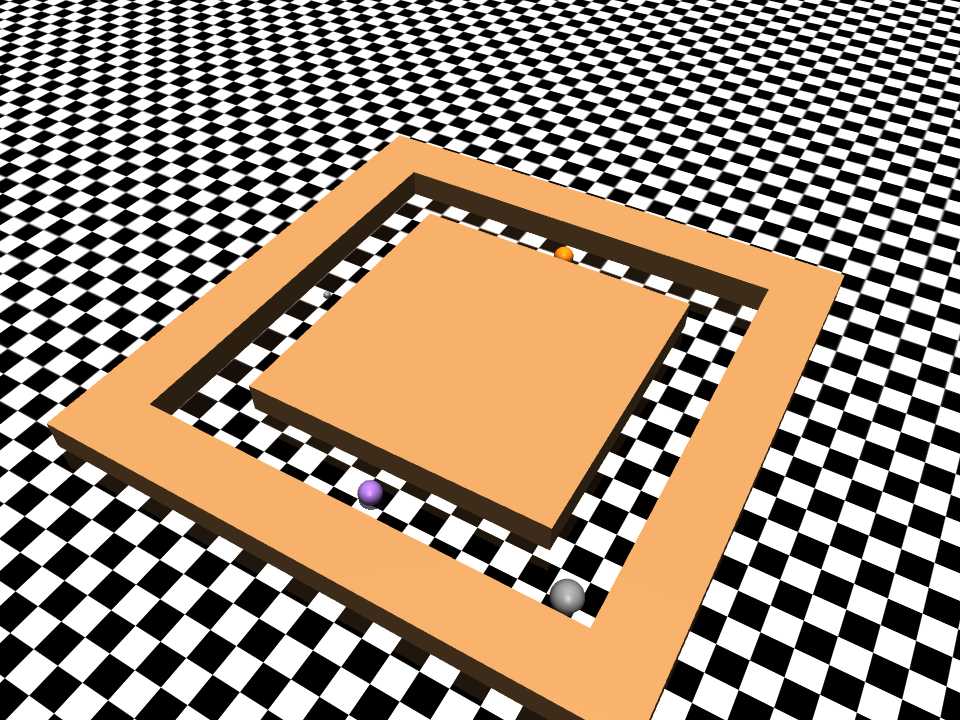
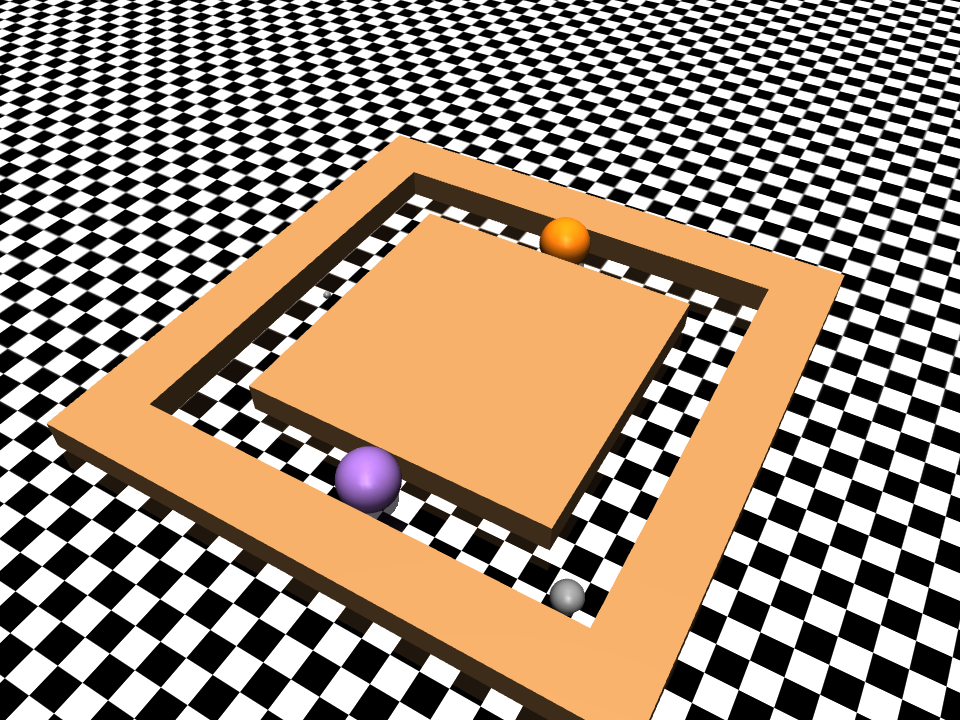
Enlarge multi-path subgoal spheres to fill the corridor.
Size markers to nearly the full corridor width so an agent cannot take a path without intersecting a subgoal volume.

Changed region(s): [[0.3438, 0.6111, 0.4375, 0.7333], [0.5625, 0.3056, 0.625, 0.3667]]

diff --git a/jaxgcrl/envs/simple_maze.py b/jaxgcrl/envs/simple_maze.py
@@ -163,10 +163,16 @@ def make_maze(maze_layout_name, maze_size_scaling):
                 )
 
     # Visual-only markers for path subgoals (do not collide / affect dynamics).
+    # Sized to nearly fill the 1-cell corridor so an agent cannot slip past
+    # without intersecting the subgoal volume (visit checks can use the same radius).
+    subgoal_radius = 0.0
     subgoal_visuals = (
         (SUBGOAL_A, "subgoal_a", "1.0 0.5 0.05 1.0"),
         (SUBGOAL_B, "subgoal_b", "0.58 0.40 0.74 1.0"),
     )
+    has_subgoals = any(find_marker_cells(maze_layout, marker) for marker, _, _ in subgoal_visuals)
+    if has_subgoals:
+        subgoal_radius = 0.45 * maze_size_scaling
     for marker, name, rgba in subgoal_visuals:
         for i, j in find_marker_cells(maze_layout, marker):
             ET.SubElement(
@@ -177,9 +183,9 @@ def make_maze(maze_layout_name, maze_size_scaling):
                 % (
                     i * maze_size_scaling,
                     j * maze_size_scaling,
-                    0.6,
+                    subgoal_radius,
                 ),
-                size="0.7",
+                size="%f" % subgoal_radius,
                 type="sphere",
                 contype="0",
                 conaffinity="0",
@@ -189,7 +195,7 @@ def make_maze(maze_layout_name, maze_size_scaling):
     tree = tree.getroot()
     xml_string = ET.tostring(tree)
 
-    return xml_string, possible_starts, possible_goals, possible_subgoals
+    return xml_string, possible_starts, possible_goals, possible_subgoals, subgoal_radius
 
 
 class SimpleMaze(PipelineEnv):
@@ -210,7 +216,7 @@ class SimpleMaze(PipelineEnv):
         task_name=None,
         **kwargs,
     ):
-        xml_string, possible_starts, possible_goals, possible_subgoals = make_maze(
+        xml_string, possible_starts, possible_goals, possible_subgoals, subgoal_radius = make_maze(
             maze_layout_name, maze_size_scaling
         )
 
@@ -221,6 +227,8 @@ class SimpleMaze(PipelineEnv):
         self.possible_starts = possible_starts
         self.possible_goals = possible_goals
         self.possible_subgoals = possible_subgoals
+        self.subgoal_radius = subgoal_radius
+        self.subgoal_reach_thresh = float(subgoal_radius)
         self.task_name = task_name
         self._task = None
         if task_name is not None:
